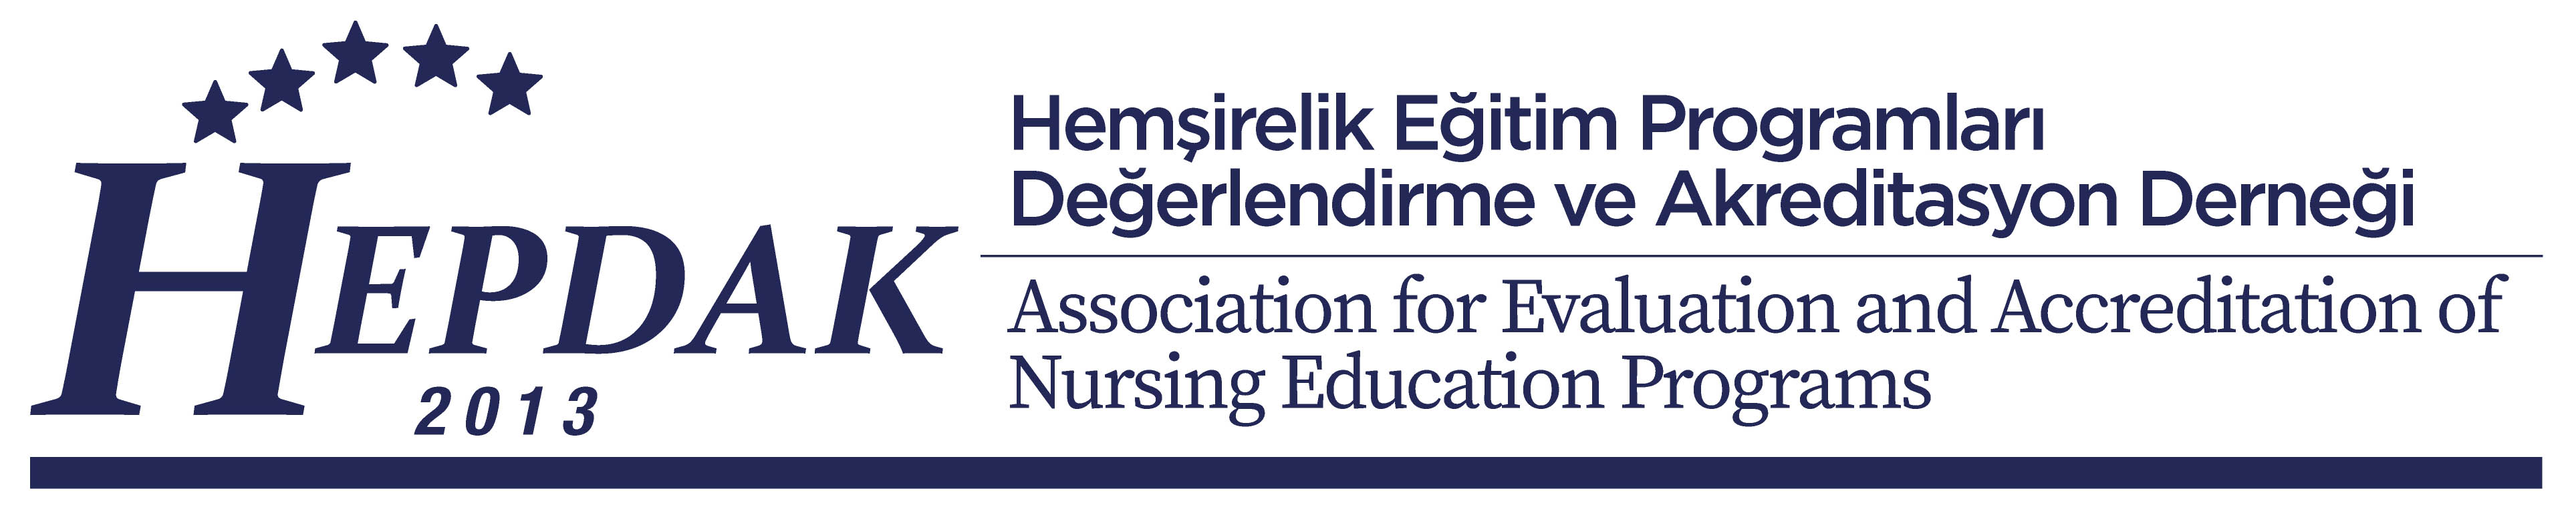
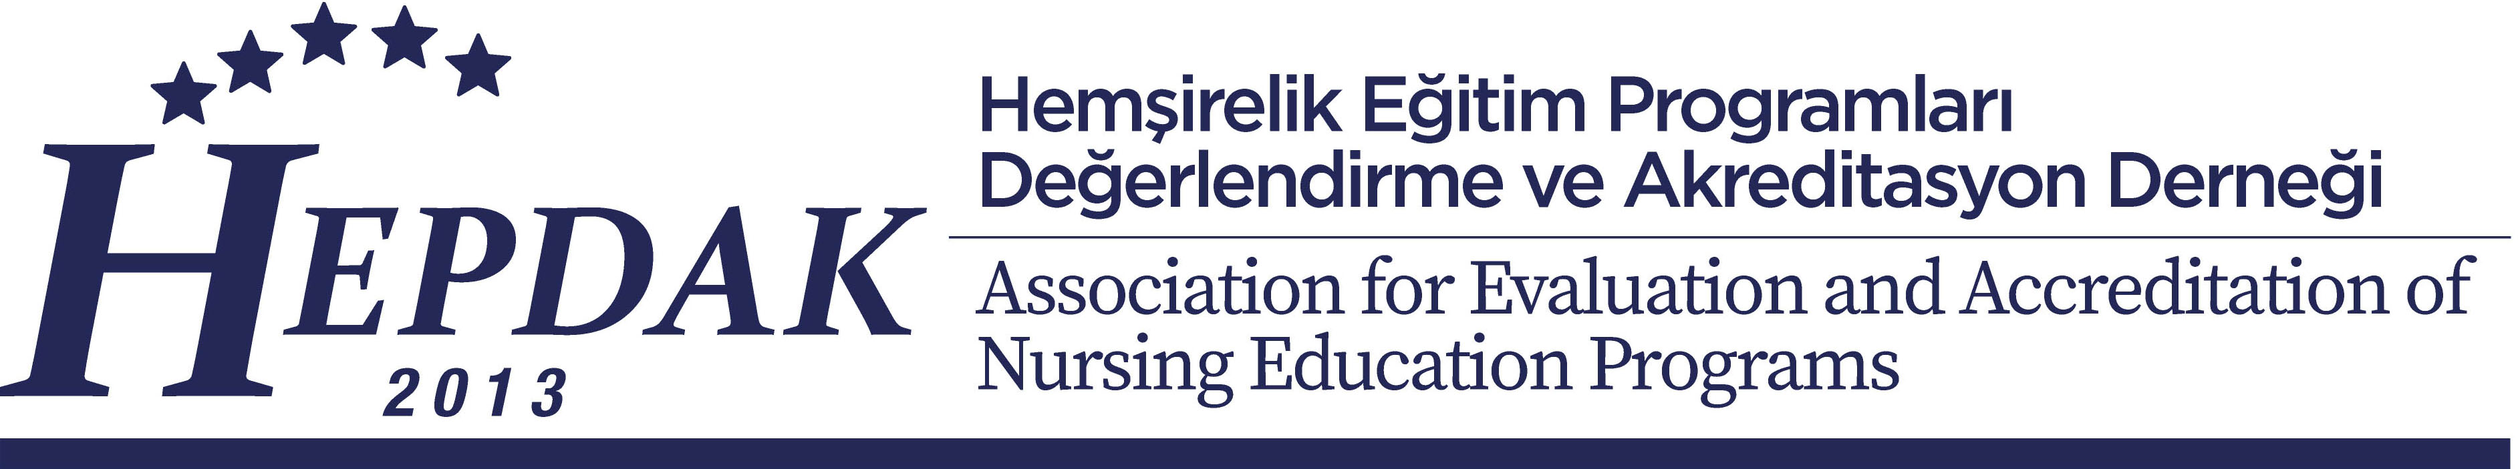
v.5.27
- Yeni header tasarlandı

Changed region(s): [[0.0, 0.0299, 0.9936, 0.8663], [0.0, 0.7468, 1.0, 1.0]]

diff --git a/pages/kurumsal-kimlik.js b/pages/kurumsal-kimlik.js
@@ -13,17 +13,18 @@ const Gorus = () => (
 	    		<div className="row">
 	    			<div className="col-md-10 col-sm-12">
 	    				<p><strong>Logo Uzun Yatay</strong></p>
-	    				<img className="kurumsal-img" src="img/hepdak-yatay-2.jpg" alt="Hepdak Logo"/>
+	    				<img className="kurumsal-img" src="img/logo/logo-yatay.jpg" alt="Hepdak Logo"/>
 	    			</div>
 	    			<div className="col-md-5 col-sm-12">
-	    				<p><strong>Logo-1</strong></p>
+	    				<p><strong>Logo Tek</strong></p>
 	    				<img className="kurumsal-img kurumsal-img-blue" src="img/hepdak-logo.jpg" alt="Hepdak Logo"/>
 	    			</div>
+	    			{/*
 	    			<div className="col-md-5 col-sm-12">
 	    				<p><strong>Logo-2</strong></p>
 	    				<img className="kurumsal-img" src="img/hepdak-logo-2.jpg" alt="Hepdak Logo"/>
 	    			</div>
-	    			
+	    			*/}
 	    		</div>
 	    	</div>
 	    </div>

diff --git a/components/header.js b/components/header.js
@@ -10,9 +10,18 @@ const Header = () => (
 		<div className="header-up-item"><Link href="/sss"><a>SSS</a></Link></div>
 		<div className="header-up-item"><Link href="/en"><a>EN</a></Link></div>
 	</div>
+	{/*
 	<div className="header-items">
 		<div className="header-logo">
 			<Link href="/"><a><img className="header-logo-img" src="img/hepdak-yatay-100-2.jpg" title="HEPDAK"></img></a></Link>
+		</div>
+	</div>
+	*/}
+	<div className="header-items">
+		<div className="header-logo">
+			<Link href="/"><a><img className="header-logo-img" src="img/logo/logo-tek.jpg" title="HEPDAK"></img></a></Link>
+			<Link href="/"><a><img className="header-logo-img" src="img/logo/logo-yazi.jpg" title="HEPDAK"></img></a></Link>
+			<Link href="/"><a><img className="header-logo-img" src="img/logo/logo-100.jpg" title="HEPDAK"></img></a></Link>
 		</div>
 	</div>
 </div>

diff --git a/components/header-eng.js b/components/header-eng.js
@@ -12,7 +12,9 @@ const Header = () => (
 	</div>
 	<div className="header-items">
 		<div className="header-logo">
-			<Link href="/en"><a><img className="header-logo-img" src="../img/hepdak-yatay-100-2.jpg.jpg" title="HEPDAK"></img></a></Link>
+			<Link href="/"><a><img className="header-logo-img" src="../img/logo/logo-tek.jpg" title="HEPDAK"></img></a></Link>
+			<Link href="/"><a><img className="header-logo-img" src="../img/logo/logo-yazi.jpg" title="HEPDAK"></img></a></Link>
+			<Link href="/"><a><img className="header-logo-img" src="../img/logo/logo-100.jpg" title="HEPDAK"></img></a></Link>
 		</div>
 	</div>
 </div>

diff --git a/components/header-alt.js b/components/header-alt.js
@@ -12,7 +12,9 @@ const Header = () => (
 	</div>
 	<div className="header-items">
 		<div className="header-logo">
-			<Link href="/"><a><img className="header-logo-img" src="../img/hepdak-yatay-100-2.jpg.jpg" title="HEPDAK"></img></a></Link>
+			<Link href="/"><a><img className="header-logo-img" src="../img/logo/logo-tek.jpg" title="HEPDAK"></img></a></Link>
+			<Link href="/"><a><img className="header-logo-img" src="../img/logo/logo-yazi.jpg" title="HEPDAK"></img></a></Link>
+			<Link href="/"><a><img className="header-logo-img" src="../img/logo/logo-100.jpg" title="HEPDAK"></img></a></Link>
 		</div>
 	</div>
 </div>

diff --git a/public/css/style.css b/public/css/style.css
@@ -29,9 +29,14 @@ table{
 .header-items{
 	display: flex;
 	justify-content: center;
-	max-width: 68.75rem;
-	margin: 1.5rem auto;
+	margin: 1.5rem 2.5rem;
 	align-items: center;
+}
+.header-logo{
+	display: flex;
+  flex-direction: row;
+  justify-content: space-between;
+  width: 1240px;
 }
 .header-logo-img{
 	padding: 1rem;
